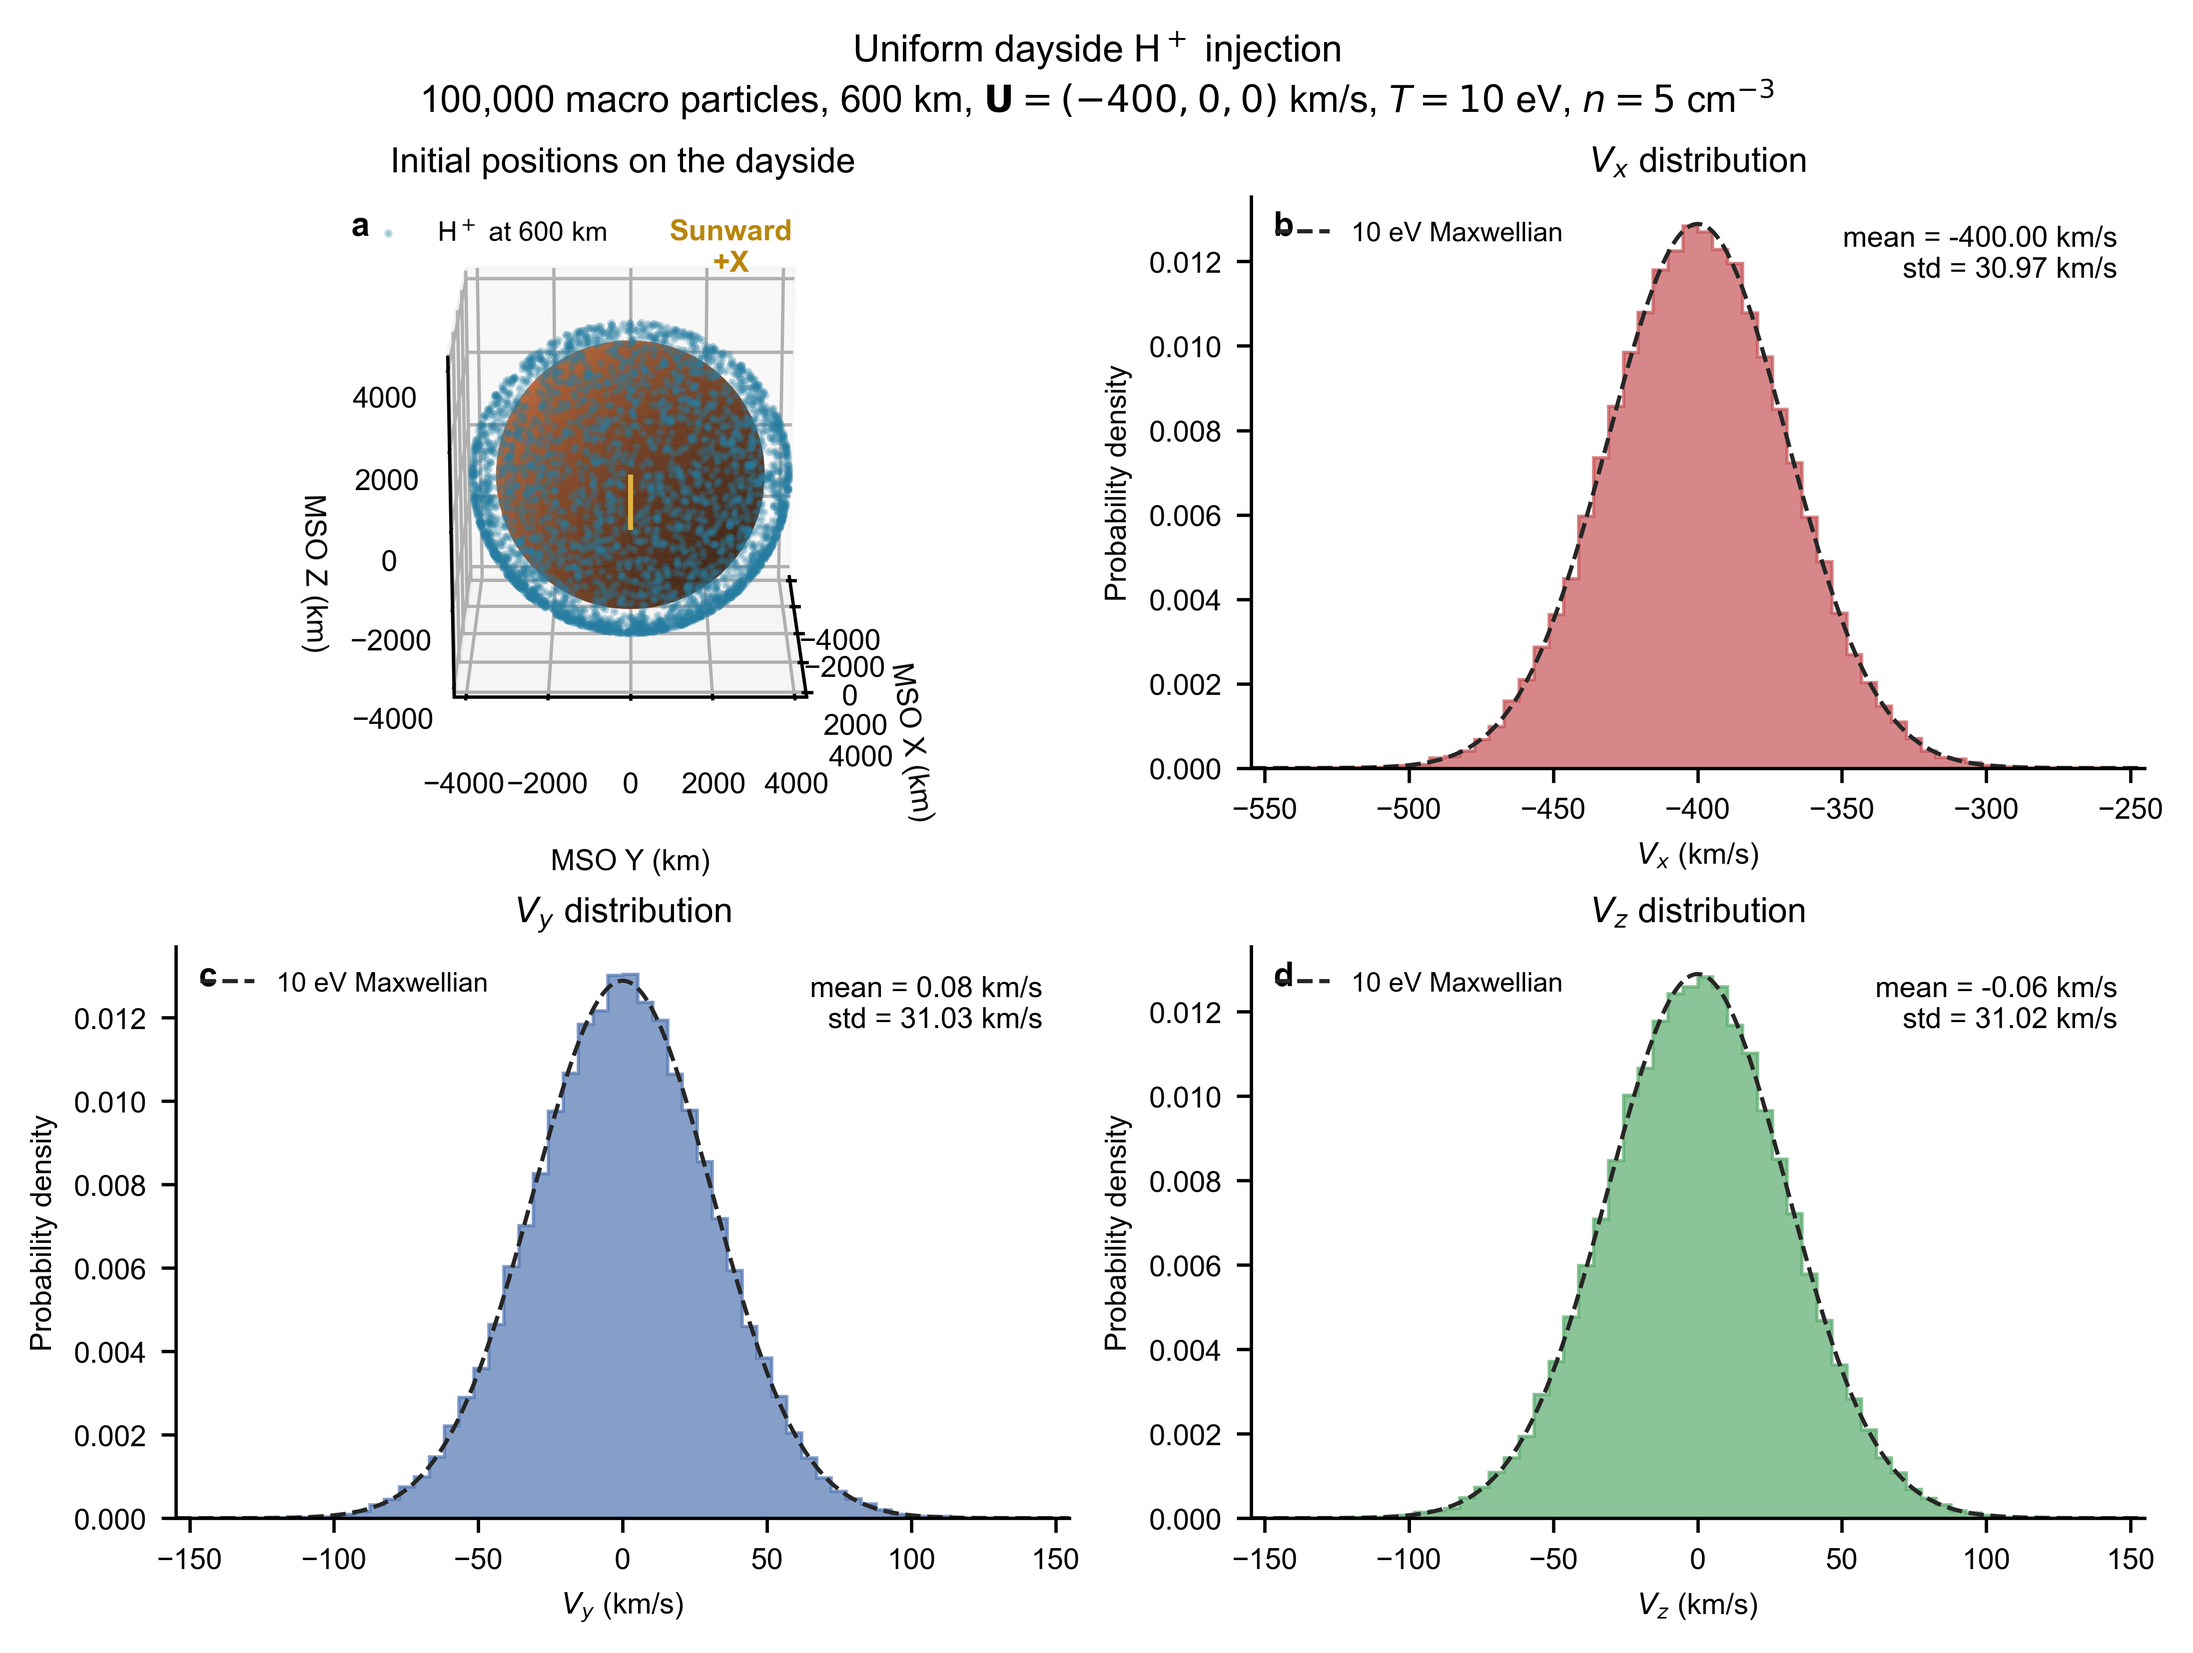
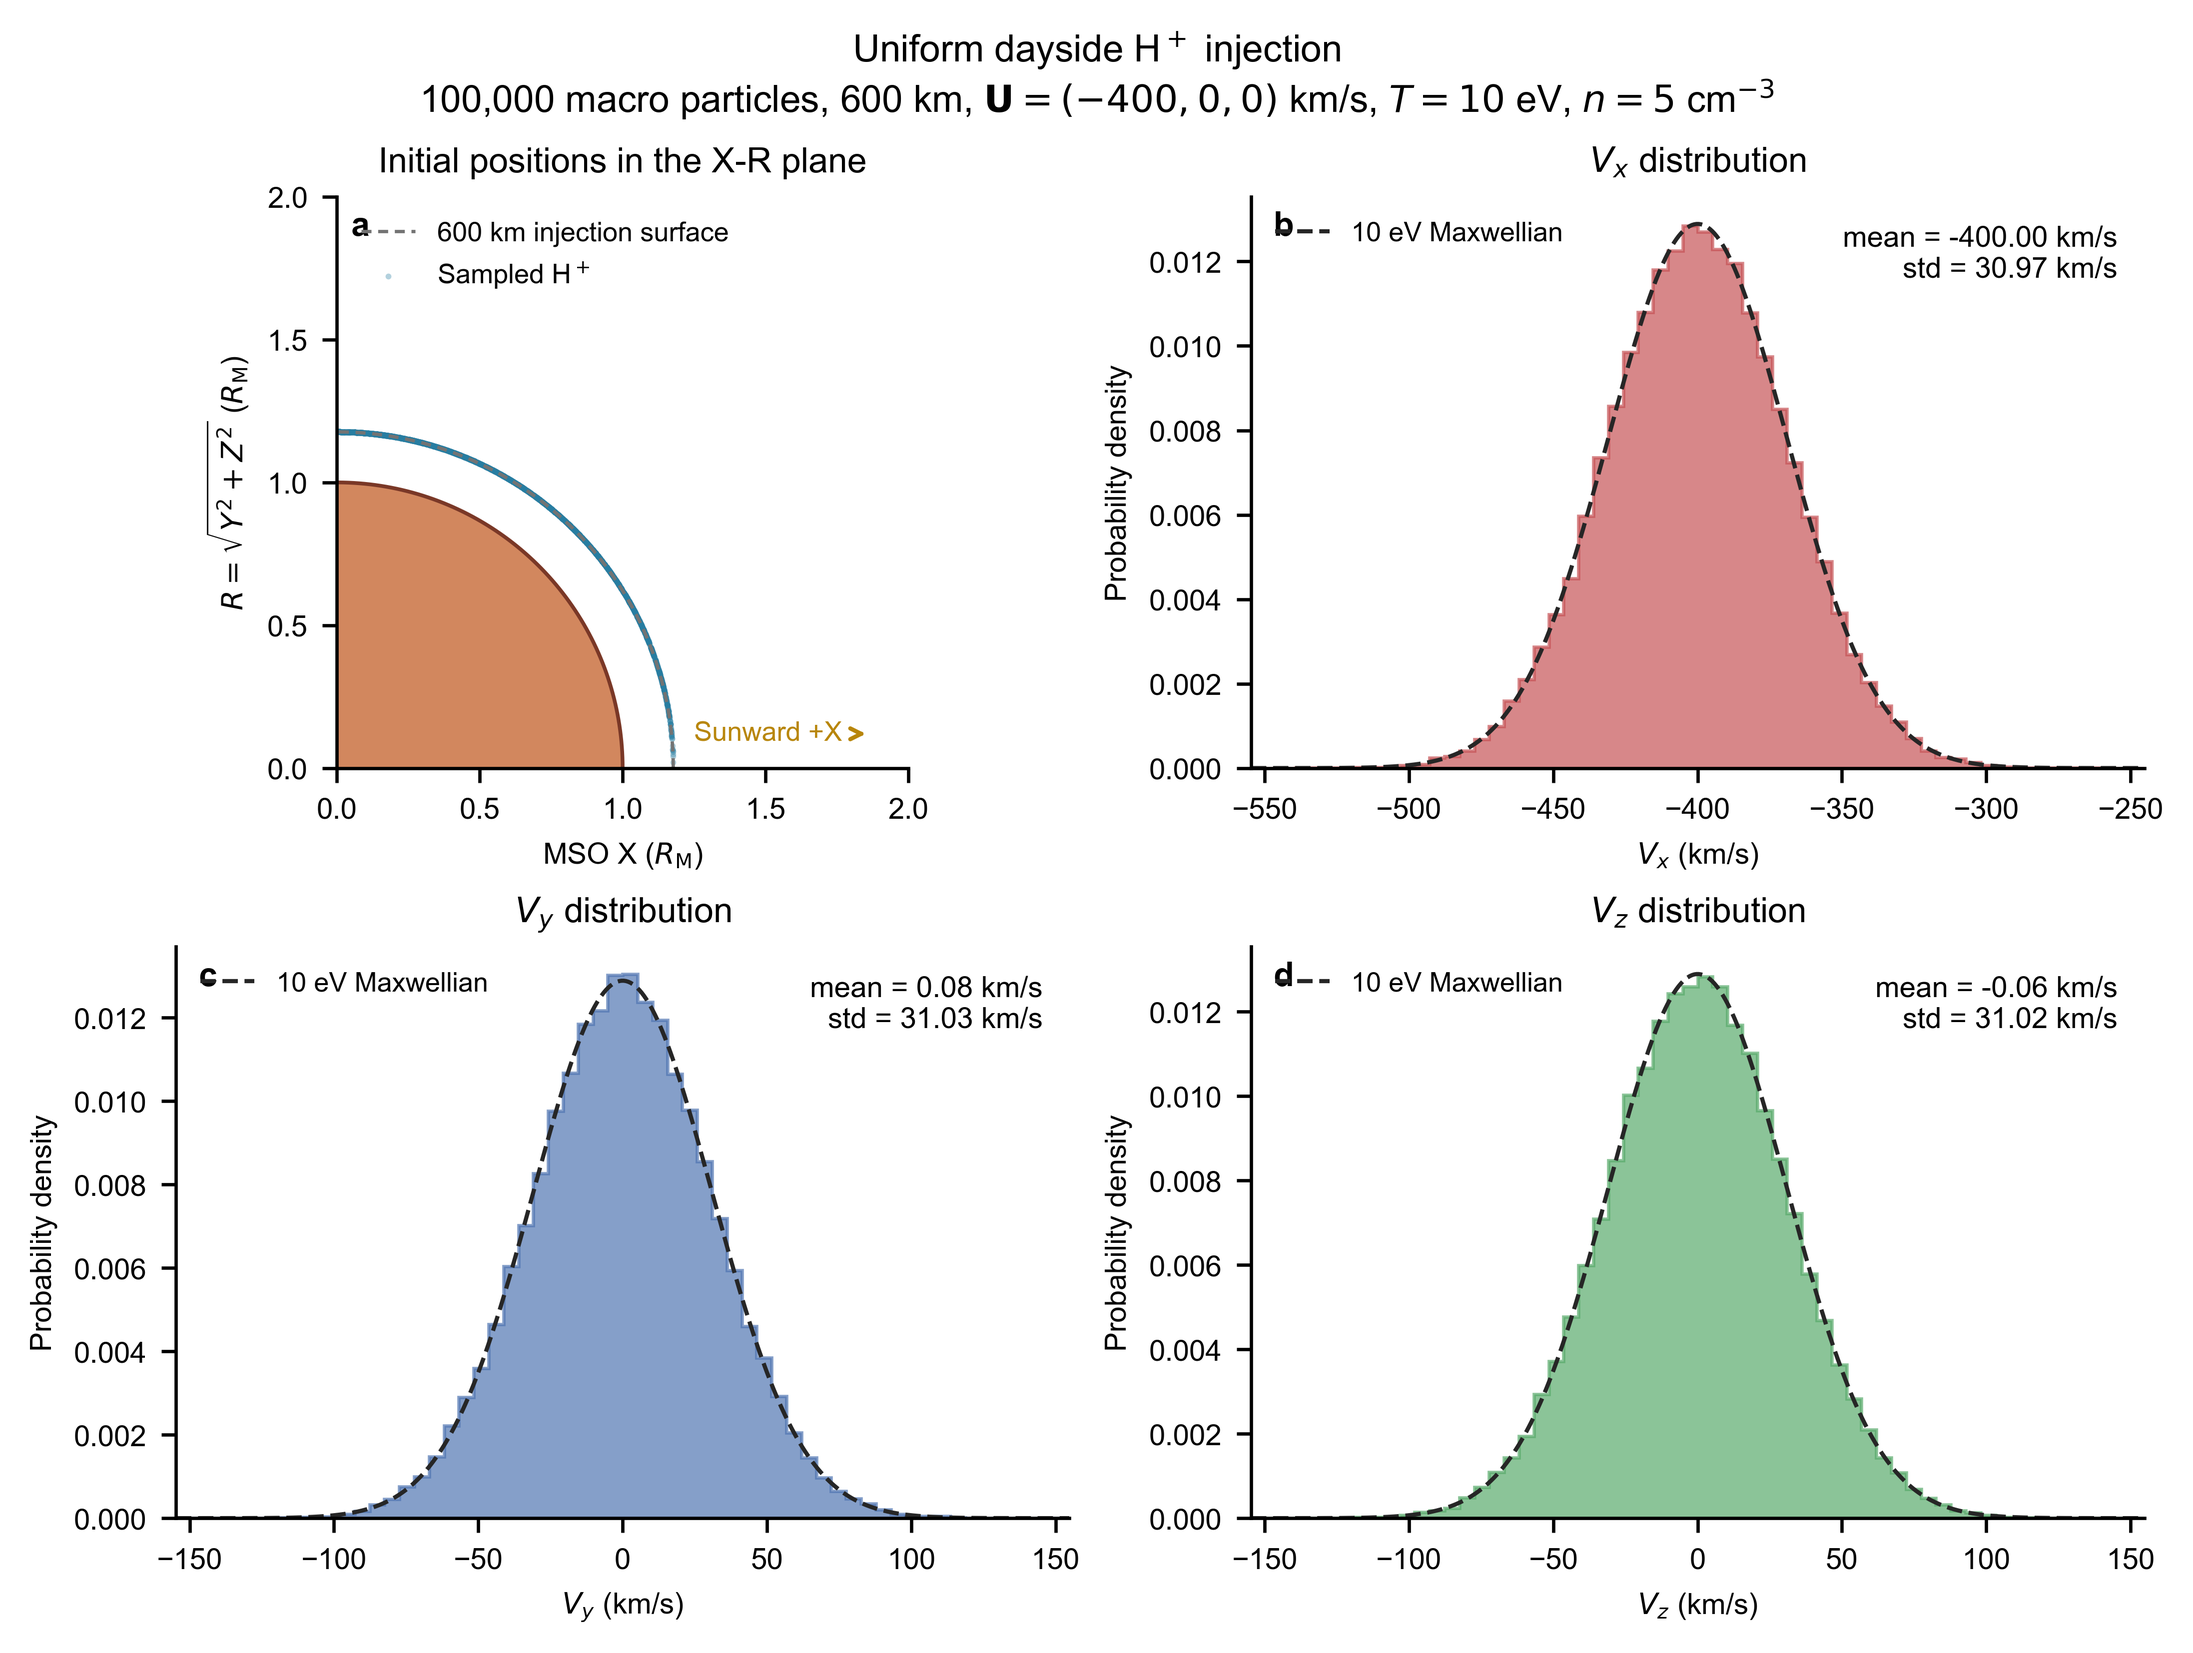
Project dayside injection positions into X R plane

Changed region(s): [[0.1249, 0.0934, 0.437, 0.5292], [0.1249, 0.1868, 0.1561, 0.2179], [0.0936, 0.2179, 0.1249, 0.249]]

diff --git a/examples/plot_dayside_injection_100000.py b/examples/plot_dayside_injection_100000.py
@@ -54,57 +54,58 @@ def main() -> None:
     weights = np.ravel(data["density_weight_m3"])
 
     fig = plt.figure(figsize=(7.2, 5.4), constrained_layout=True)
-    position_axis = fig.add_subplot(2, 2, 1, projection="3d")
+    position_axis = fig.add_subplot(2, 2, 1)
     velocity_axes = (
         fig.add_subplot(2, 2, 2),
         fig.add_subplot(2, 2, 3),
         fig.add_subplot(2, 2, 4),
     )
 
-    # Draw Mars at the origin and a deterministic subset of the 100,000
-    # injection positions on the 600 km dayside spherical surface.
+    # Project a deterministic subset of the initial positions into the
+    # cylindrical MSO X-R plane, where R = sqrt(Y^2 + Z^2). Coordinates are
+    # normalized by the Mars radius so both axes can use the requested
+    # 0 to 2 R_M range.
     mars_radius_km = 3388.25
-    theta = np.linspace(0.0, 2.0 * np.pi, 80)
-    polar = np.linspace(0.0, np.pi, 40)
-    sphere_x = mars_radius_km * np.outer(
-        np.cos(theta), np.sin(polar)
+    angle = np.linspace(0.0, 0.5 * np.pi, 500)
+    mars_x = np.cos(angle)
+    mars_r = np.sin(angle)
+    injection_radius_rm = (mars_radius_km + 600.0) / mars_radius_km
+    injection_x = injection_radius_rm * np.cos(angle)
+    injection_r = injection_radius_rm * np.sin(angle)
+    position_axis.fill_between(
+        mars_x, 0.0, mars_r, color="#C96D3B",
+        alpha=0.82, linewidth=0,
     )
-    sphere_y = mars_radius_km * np.outer(
-        np.sin(theta), np.sin(polar)
-    )
-    sphere_z = mars_radius_km * np.outer(
-        np.ones_like(theta), np.cos(polar)
-    )
-    position_axis.plot_surface(
-        sphere_x, sphere_y, sphere_z, color="#C96D3B",
-        alpha=0.82, linewidth=0, shade=True, rasterized=True,
+    position_axis.plot(mars_x, mars_r, color="#7A3827", linewidth=0.9)
+    position_axis.plot(
+        injection_x, injection_r, color="0.45", linewidth=0.8,
+        linestyle=(0, (3, 2)), label="600 km injection surface",
     )
     rng = np.random.default_rng(61)
     selected = rng.choice(position.shape[0], size=3000, replace=False)
+    x_rm = position[selected, 0] / mars_radius_km
+    r_rm = np.hypot(
+        position[selected, 1], position[selected, 2]
+    ) / mars_radius_km
     position_axis.scatter(
-        position[selected, 0], position[selected, 1], position[selected, 2],
-        s=1.0, color="#277DA1", alpha=0.28, depthshade=False,
-        rasterized=True, label="H$^+$ at 600 km",
+        x_rm, r_rm, s=2.0, color="#277DA1", alpha=0.35,
+        linewidths=0, rasterized=True, label="Sampled H$^+$",
     )
-    limit = mars_radius_km + 900.0
     position_axis.set(
-        xlim=(-limit, limit), ylim=(-limit, limit), zlim=(-limit, limit),
-        xlabel="MSO X (km)", ylabel="MSO Y (km)", zlabel="MSO Z (km)",
-        title="Initial positions on the dayside",
+        xlim=(0.0, 2.0), ylim=(0.0, 2.0),
+        xlabel=r"MSO X ($R_{\mathrm{M}}$)",
+        ylabel=r"$R=\sqrt{Y^2+Z^2}$ ($R_{\mathrm{M}}$)",
+        title="Initial positions in the X-R plane",
     )
-    position_axis.set_box_aspect((1, 1, 1))
-    # Look approximately from the Sun toward Mars so the selected dayside
-    # hemisphere and its 600 km stand-off from the planet are immediately
-    # visible.
-    position_axis.view_init(elev=18, azim=0)
+    position_axis.set_aspect("equal", adjustable="box")
+    position_axis.set_xticks((0.0, 0.5, 1.0, 1.5, 2.0))
+    position_axis.set_yticks((0.0, 0.5, 1.0, 1.5, 2.0))
     position_axis.legend(loc="upper left", fontsize=6.5)
-    position_axis.text2D(
-        0.69, 0.91, "Sunward\n+X", transform=position_axis.transAxes,
-        ha="center", va="center", color="#B8860B", fontweight="bold",
-    )
-    position_axis.quiver(
-        0, 0, 0, limit, 0, 0, color="#E3B341",
-        arrow_length_ratio=0.08, linewidth=1.2,
+    position_axis.annotate(
+        "Sunward +X",
+        xy=(1.88, 0.12), xytext=(1.25, 0.12),
+        arrowprops={"arrowstyle": "->", "color": "#B8860B", "lw": 1.0},
+        color="#B8860B", ha="left", va="center", fontsize=6.5,
     )
 
     labels = (r"$V_x$", r"$V_y$", r"$V_z$")
@@ -144,7 +145,7 @@ def main() -> None:
         )
         axis.legend(loc="upper left", fontsize=6.5)
 
-    position_axis.text2D(
+    position_axis.text(
         0.025, 0.975, "a", transform=position_axis.transAxes,
         ha="left", va="top", fontsize=8, fontweight="bold",
     )

diff --git a/examples/README.md b/examples/README.md
@@ -262,8 +262,9 @@ julia --project=. -t auto examples/sample_dayside_injection_100000.jl
 C:\Users\Win\.conda\envs\mars\python.exe examples/plot_dayside_injection_100000.py examples/output/dayside_hplus_injection_100000.mat
 ```
 
-The resulting figure contains a three-dimensional Mars and injection-position
-view together with the MSO $V_x$, $V_y$, and $V_z$ distributions:
+The resulting figure contains an MSO X-R injection-position panel, with both
+axes spanning 0 to $2R_{\mathrm{M}}$, together with the MSO $V_x$, $V_y$, and
+$V_z$ distributions:
 
 `examples/figures/dayside_hplus_injection_100000_4panel.png`.
 
